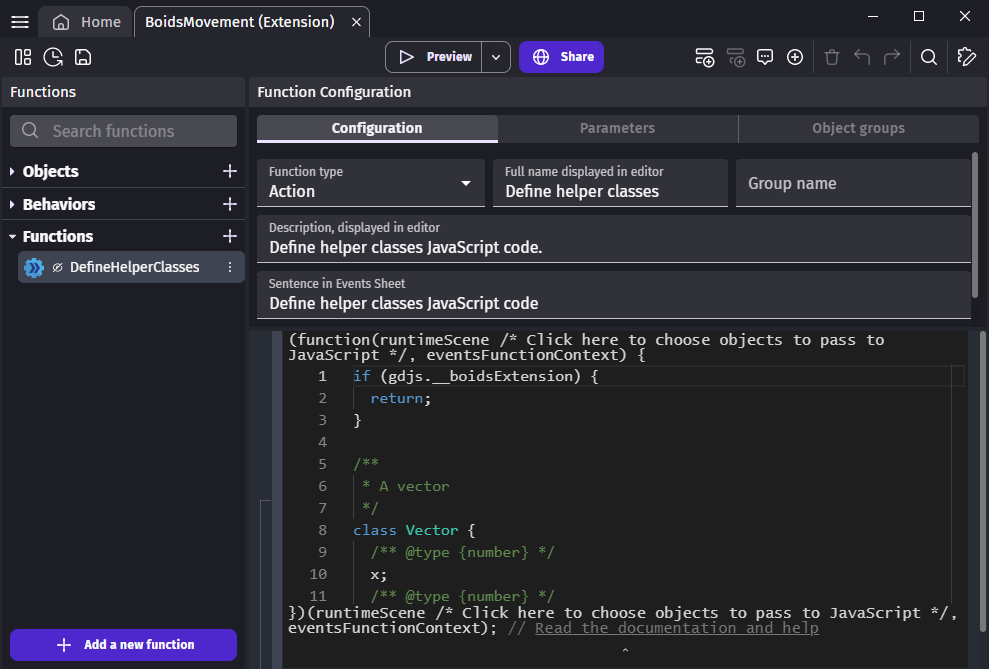
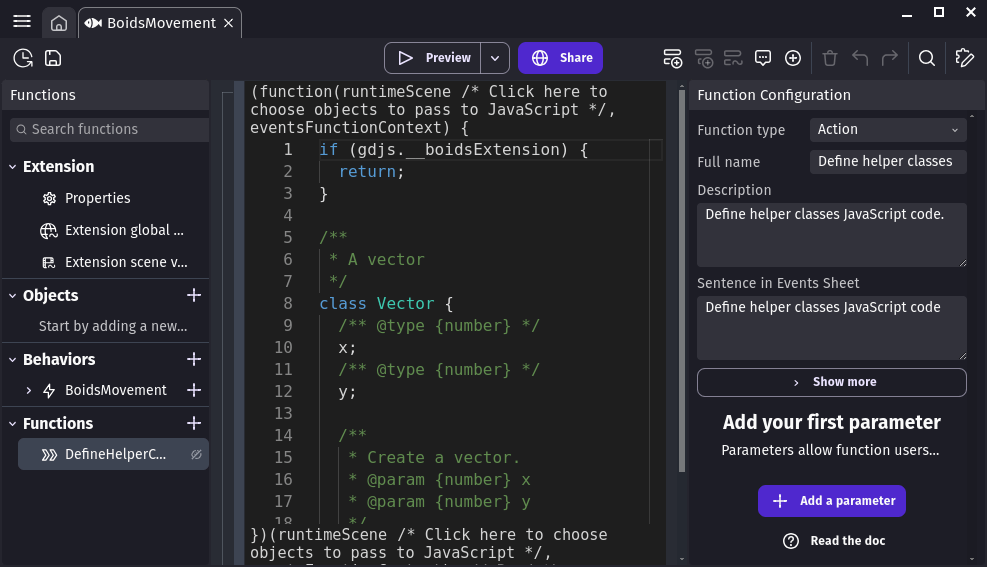
[JS in extension] object and resource parameters

diff --git a/docs/gdevelop5/events/js-code/javascript-in-extensions/index.md b/docs/gdevelop5/events/js-code/javascript-in-extensions/index.md
@@ -97,7 +97,9 @@ const angle = eventsFunctionContext.getArgument("Angle");
 
 ![](wrap-function.png)
 
-For object parameters, `getObjects` must be used. It gives an `Array` of `RuntimeObject`.
+### Get object parameters in JavaScript
+
+For object parameters, `getObjects` must be used. It gives an `Array` of `gdjs.RuntimeObject`.
 
 ```javascript
 const players = eventsFunctionContext.getObjects("Player");
@@ -106,6 +108,35 @@ for (const player of players) {
 
 }
 ```
+
+When you chose a specific type for the object in the parameter list, you need to declare the type in the code to get all the autocompletions. For instance, for sprite objects, you will add the following:
+
+```javascript
+/** @type {Array<gdjs.SpriteRuntimeObject>} */
+const players = eventsFunctionContext.getObjects("Player");
+```
+You can find a list of all object type in the [GDJS documentation page for RuntimeObject](https://docs.gdevelop.io/GDJS%20Runtime%20Documentation/classes/gdjs.RuntimeObject.html).
+
+
+### Get resources in JavaScript
+
+Resource parameters are string containing the name of the resource. You can get the resource content from some [ResourceManager](https://docs.gdevelop.io/GDJS%20Runtime%20Documentation/interfaces/gdjs.ResourceManager.html).
+
+For instance, to get an image for a 2D game you can do as follows:
+
+```javascript
+const resourceName = eventsFunctionContext.getArgument("MyImage");
+runtimeScene.getGame().getImageManager().getPIXITexture(resourceName);
+```
+
+For 3D games, you can get a texture with this other method:
+```javascript
+runtimeScene.getGame().getImageManager().getThreeTexture(resourceName);
+```
+
+!!! warning
+
+    By default, resource names look like a relative path, but it should not be used as a path because it won't necessarily be a valid path (and it can be changed by users to anything). 
 
 ### Call a library from an event-function
 